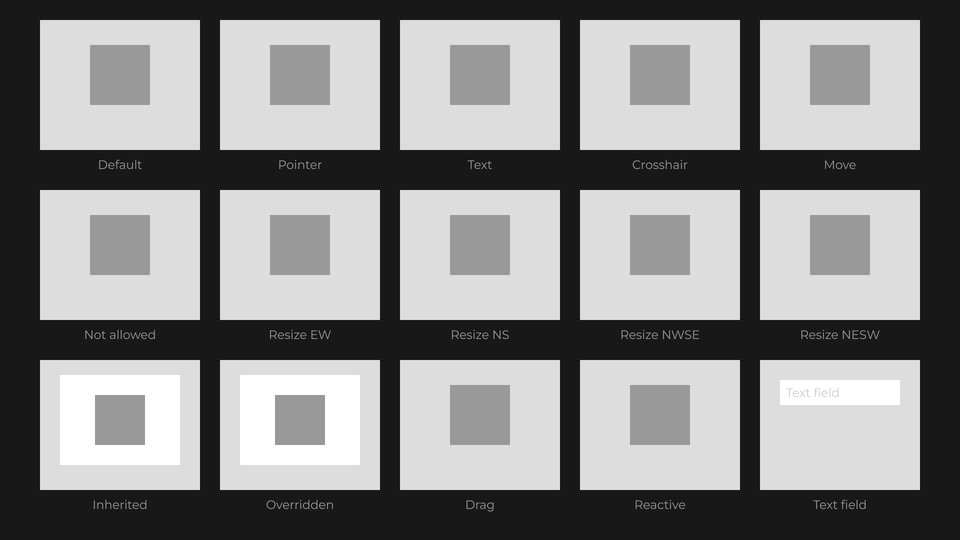
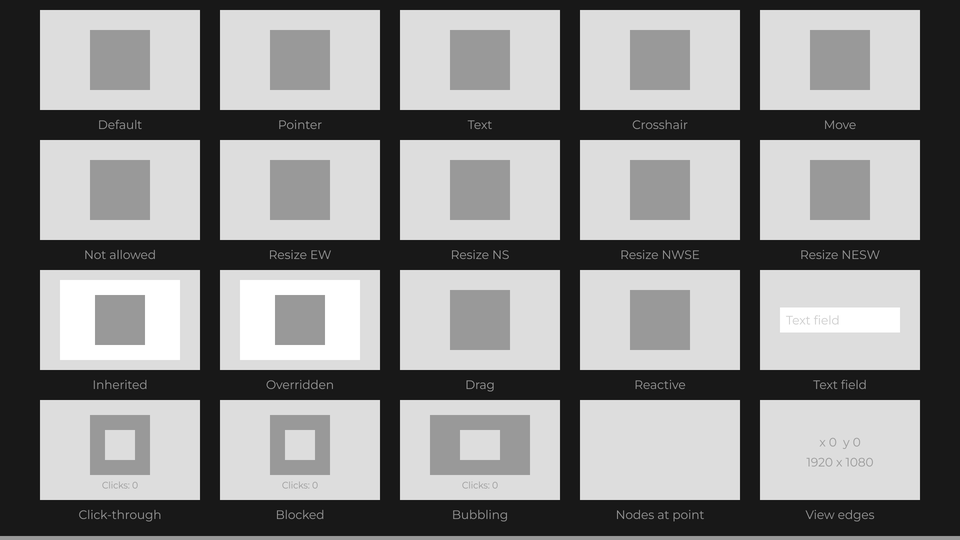
feat: mouse target cards in the cursor demo (✨)

diff --git a/core/src/main/java/dev/joid/demo/ui/cursor/UIDemoCursor.java b/core/src/main/java/dev/joid/demo/ui/cursor/UIDemoCursor.java
@@ -8,6 +8,7 @@ import dev.joid.lib.draw.text.builder.Text;
 import dev.joid.lib.font.TextInfo;
 import dev.joid.lib.input.cursor.Cursor;
 import dev.joid.lib.signal.impl.primitive.BooleanSignal;
+import dev.joid.lib.signal.impl.primitive.IntegerSignal;
 import dev.joid.lib.ui.node.impl.design.shape.RectNode;
 import dev.joid.lib.ui.node.impl.design.text.TextNode;
 import dev.joid.lib.ui.node.property.draggable.DraggableProperty;
@@ -21,84 +22,174 @@ public class UIDemoCursor extends UIDemo {
 	@Override
 	public void init() {
 		final TextInfo info = TextInfo.create(DemoFont.MONTSERRAT, 24, UIDemoCursor.INK);
+		final TextInfo small = TextInfo.create(DemoFont.MONTSERRAT, 18, UIDemoCursor.INK);
 		final BooleanSignal locked = BooleanSignal.of(false);
+		final IntegerSignal through = IntegerSignal.of(0);
+		final IntegerSignal blocked = IntegerSignal.of(0);
+		final IntegerSignal bubbled = IntegerSignal.of(0);
 		final String[] captions = {"Default", "Pointer", "Text", "Crosshair", "Move", "Not allowed", "Resize EW", "Resize NS", "Resize NWSE", "Resize NESW"};
 		final Cursor[] cursors = Cursor.values();
 
 		for (int i = 0; i < cursors.length; i++) {
 			final int index = i;
 			RectNode
-			.create(80 + index % 5 * 360, 40 + index / 5 * 340, 320, 260)
+			.create(80 + index % 5 * 360, 20 + index / 5 * 260, 320, 200)
 			.color(UIDemoCursor.PLACEHOLDER)
 			.body(rect -> {
-				RectNode.create(100, 50, 120, 120).color(UIDemoCursor.INK).hoveredColor(Color.WHITE).cursor(cursors[index]).attach(rect);
-				TextNode.create(160, 275).text(Text.create(captions[index], info, Align.CENTER)).anchorX(Align.CENTER).attach(rect);
+				RectNode.create(100, 40, 120, 120).color(UIDemoCursor.INK).hoveredColor(Color.WHITE).cursor(cursors[index]).attach(rect);
+				TextNode.create(160, 215).text(Text.create(captions[index], info, Align.CENTER)).anchorX(Align.CENTER).attach(rect);
 			})
 			.attach(this);
 		}
 
 		RectNode
-		.create(80, 720, 320, 260)
+		.create(80, 540, 320, 200)
 		.color(UIDemoCursor.PLACEHOLDER)
 		.body(rect -> {
 			RectNode
-			.create(40, 30, 240, 180)
+			.create(40, 20, 240, 160)
 			.color(Color.WHITE)
 			.cursor(Cursor.CROSSHAIR)
 			.body(parent -> {
-				RectNode.create(70, 40, 100, 100).color(UIDemoCursor.INK).hoveredColor(UIDemoCursor.PLACEHOLDER).attach(parent);
+				RectNode.create(70, 30, 100, 100).color(UIDemoCursor.INK).hoveredColor(UIDemoCursor.PLACEHOLDER).attach(parent);
 			})
 			.attach(rect);
-			TextNode.create(160, 275).text(Text.create("Inherited", info, Align.CENTER)).anchorX(Align.CENTER).attach(rect);
+			TextNode.create(160, 215).text(Text.create("Inherited", info, Align.CENTER)).anchorX(Align.CENTER).attach(rect);
 		})
 		.attach(this);
 
 		RectNode
-		.create(440, 720, 320, 260)
+		.create(440, 540, 320, 200)
 		.color(UIDemoCursor.PLACEHOLDER)
 		.body(rect -> {
 			RectNode
-			.create(40, 30, 240, 180)
+			.create(40, 20, 240, 160)
 			.color(Color.WHITE)
 			.cursor(Cursor.CROSSHAIR)
 			.body(parent -> {
-				RectNode.create(70, 40, 100, 100).color(UIDemoCursor.INK).hoveredColor(UIDemoCursor.PLACEHOLDER).cursor(Cursor.POINTER).attach(parent);
+				RectNode.create(70, 30, 100, 100).color(UIDemoCursor.INK).hoveredColor(UIDemoCursor.PLACEHOLDER).cursor(Cursor.POINTER).attach(parent);
 			})
 			.attach(rect);
-			TextNode.create(160, 275).text(Text.create("Overridden", info, Align.CENTER)).anchorX(Align.CENTER).attach(rect);
+			TextNode.create(160, 215).text(Text.create("Overridden", info, Align.CENTER)).anchorX(Align.CENTER).attach(rect);
 		})
 		.attach(this);
 
 		RectNode
-		.create(800, 720, 320, 260)
+		.create(800, 540, 320, 200)
 		.color(UIDemoCursor.PLACEHOLDER)
 		.body(rect -> {
-			RectNode.create(100, 50, 120, 120).color(UIDemoCursor.INK).hoveredColor(Color.WHITE).cursor(Cursor.MOVE).draggable(DraggableProperty.free()).attach(rect);
-			TextNode.create(160, 275).text(Text.create("Drag", info, Align.CENTER)).anchorX(Align.CENTER).attach(rect);
+			RectNode.create(100, 40, 120, 120).color(UIDemoCursor.INK).hoveredColor(Color.WHITE).cursor(Cursor.MOVE).draggable(DraggableProperty.parent()).attach(rect);
+			TextNode.create(160, 215).text(Text.create("Drag", info, Align.CENTER)).anchorX(Align.CENTER).attach(rect);
 		})
 		.attach(this);
 
 		RectNode
-		.create(1160, 720, 320, 260)
+		.create(1160, 540, 320, 200)
 		.color(UIDemoCursor.PLACEHOLDER)
 		.body(rect -> {
 			RectNode
-			.create(100, 50, 120, 120)
+			.create(100, 40, 120, 120)
 			.color(() -> locked.get() ? UIDemoCursor.INK.copyAlpha(0.4F) : UIDemoCursor.INK)
 			.cursor(() -> locked.get() ? Cursor.NOT_ALLOWED : Cursor.POINTER)
 			.onClick((node, mouseX, mouseY, button) -> locked.set(!locked.get()))
 			.attach(rect);
-			TextNode.create(160, 275).text(Text.create("Reactive", info, Align.CENTER)).anchorX(Align.CENTER).attach(rect);
+			TextNode.create(160, 215).text(Text.create("Reactive", info, Align.CENTER)).anchorX(Align.CENTER).attach(rect);
 		})
 		.attach(this);
 
 		RectNode
-		.create(1520, 720, 320, 260)
+		.create(1520, 540, 320, 200)
 		.color(UIDemoCursor.PLACEHOLDER)
 		.body(rect -> {
-			DemoTextFieldNode.create(40, 40, 240, 50).info(info).marginHorizontal(12D).placeholder("Text field").attach(rect);
-			TextNode.create(160, 275).text(Text.create("Text field", info, Align.CENTER)).anchorX(Align.CENTER).attach(rect);
+			DemoTextFieldNode.create(40, 75, 240, 50).info(info).marginHorizontal(12D).placeholder("Text field").attach(rect);
+			TextNode.create(160, 215).text(Text.create("Text field", info, Align.CENTER)).anchorX(Align.CENTER).attach(rect);
 		})
+		.attach(this);
+
+		RectNode
+		.create(80, 800, 320, 200)
+		.color(UIDemoCursor.PLACEHOLDER)
+		.body(rect -> {
+			RectNode
+			.create(100, 30, 120, 120)
+			.color(UIDemoCursor.INK)
+			.hoveredColor(Color.WHITE)
+			.cursor(Cursor.POINTER)
+			.hover(() -> "Button")
+			.onClick((node, mouseX, mouseY, button) -> through.increment())
+			.attach(rect);
+			RectNode.create(130, 60, 60, 60).color(UIDemoCursor.PLACEHOLDER).interactive(false).attach(rect);
+			TextNode.create(160, 160).text(Text.create("Clicks: " + through.get(), small, Align.CENTER)).anchorX(Align.CENTER).attach(rect);
+			TextNode.create(160, 215).text(Text.create("Click-through", info, Align.CENTER)).anchorX(Align.CENTER).attach(rect);
+		})
+		.attach(this);
+
+		RectNode
+		.create(440, 800, 320, 200)
+		.color(UIDemoCursor.PLACEHOLDER)
+		.body(rect -> {
+			RectNode
+			.create(100, 30, 120, 120)
+			.color(UIDemoCursor.INK)
+			.hoveredColor(Color.WHITE)
+			.cursor(Cursor.POINTER)
+			.hover(() -> "Button")
+			.onClick((node, mouseX, mouseY, button) -> blocked.increment())
+			.attach(rect);
+			RectNode.create(130, 60, 60, 60).color(UIDemoCursor.PLACEHOLDER).attach(rect);
+			TextNode.create(160, 160).text(Text.create("Clicks: " + blocked.get(), small, Align.CENTER)).anchorX(Align.CENTER).attach(rect);
+			TextNode.create(160, 215).text(Text.create("Blocked", info, Align.CENTER)).anchorX(Align.CENTER).attach(rect);
+		})
+		.attach(this);
+
+		RectNode
+		.create(800, 800, 320, 200)
+		.color(UIDemoCursor.PLACEHOLDER)
+		.body(rect -> {
+			RectNode
+			.create(60, 30, 200, 120)
+			.color(UIDemoCursor.INK)
+			.hoveredColor(Color.WHITE)
+			.cursor(Cursor.POINTER)
+			.onClick((node, mouseX, mouseY, button) -> bubbled.increment())
+			.body(parent -> {
+				RectNode.create(60, 30, 80, 60).color(UIDemoCursor.PLACEHOLDER).attach(parent);
+			})
+			.attach(rect);
+			TextNode.create(160, 160).text(Text.create("Clicks: " + bubbled.get(), small, Align.CENTER)).anchorX(Align.CENTER).attach(rect);
+			TextNode.create(160, 215).text(Text.create("Bubbling", info, Align.CENTER)).anchorX(Align.CENTER).attach(rect);
+		})
+		.attach(this);
+
+		RectNode
+		.create(1160, 800, 320, 200)
+		.color(UIDemoCursor.PLACEHOLDER)
+		.body(rect -> {
+			for (int i = 0; i < 5; i++) {
+				final int line = i;
+				TextNode.create(20, 16 + line * 28).text(Text.create(() -> super.getNodeListAt(super.getMouseX(), super.getMouseY()).stream().skip(line).findFirst().map(node -> node.getClass().getSimpleName() + " " + (int) node.getWidth() + "x" + (int) node.getHeight() + (node.isInteractive() ? "" : " through")).orElse(""), small)).attach(rect);
+			}
+			TextNode.create(160, 215).text(Text.create("Nodes at point", info, Align.CENTER)).anchorX(Align.CENTER).attach(rect);
+		})
+		.attach(this);
+
+		RectNode
+		.create(1520, 800, 320, 200)
+		.color(UIDemoCursor.PLACEHOLDER)
+		.body(rect -> {
+			TextNode.create(160, 70).text(Text.create(() -> "x " + (int) super.getViewX() + "  y " + (int) super.getViewY(), info, Align.CENTER)).anchorX(Align.CENTER).attach(rect);
+			TextNode.create(160, 110).text(Text.create(() -> (int) super.getViewWidth() + " x " + (int) super.getViewHeight(), info, Align.CENTER)).anchorX(Align.CENTER).attach(rect);
+			TextNode.create(160, 215).text(Text.create("View edges", info, Align.CENTER)).anchorX(Align.CENTER).attach(rect);
+		})
+		.attach(this);
+
+		RectNode
+		.create(0, 0, 0, 8)
+		.color(UIDemoCursor.INK)
+		.x(super::getViewX)
+		.y(() -> super.getViewY() + super.getViewHeight() - 8)
+		.width(super::getViewWidth)
+		.interactive(false)
 		.attach(this);
 	}
 

diff --git a/documentation/content/interactions/mouse-and-keyboard.md b/documentation/content/interactions/mouse-and-keyboard.md
@@ -161,7 +161,7 @@ At each frame, the UI bridge picks the cursor the way a browser does:
 - only the UIs that receive the mouse count, from the top: an interactive overlay comes before the screen below it, a popup hides the UIs under it, and a passive overlay is ignored;
 - outside every node, the cursor is `DEFAULT`.
 
-![Each card of the cursor demo gives its square one of the ten cursors; the last row shows an inherited cursor, an overridden one, a dragged square, a reactive cursor and a text field](../images/cursor-demo.png "The cursor demo: one card per cursor, then inheritance, drag, a reactive cursor and the text cursor of a field")
+![Each card of the cursor demo gives its square one of the ten cursors; the third row shows an inherited cursor, an overridden one, a dragged square, a reactive cursor and a text field; the last row shows a click through a decoration, a click blocked by one, a click bubbling up to a parent, the nodes under the mouse and the edges of the view](../images/cursor-demo.png "The cursor demo: one card per cursor, then inheritance, drag, a reactive cursor and the text cursor of a field, then the mouse target")
 
 The bridge calls `IWindowBridge.setCursor(...)` only when that cursor changes, and never while the mouse is grabbed. `cursor(Supplier<Cursor>)` follows a signal or any expression; a supplier that gives `null` lets the node take the cursor of its parent. `getCursor()` returns the cursor set on the node (`null` when it has none), `getResolvedCursor()` the one it shows after inheritance, and `UI.getHoveredNode()` the node that decides.
 
